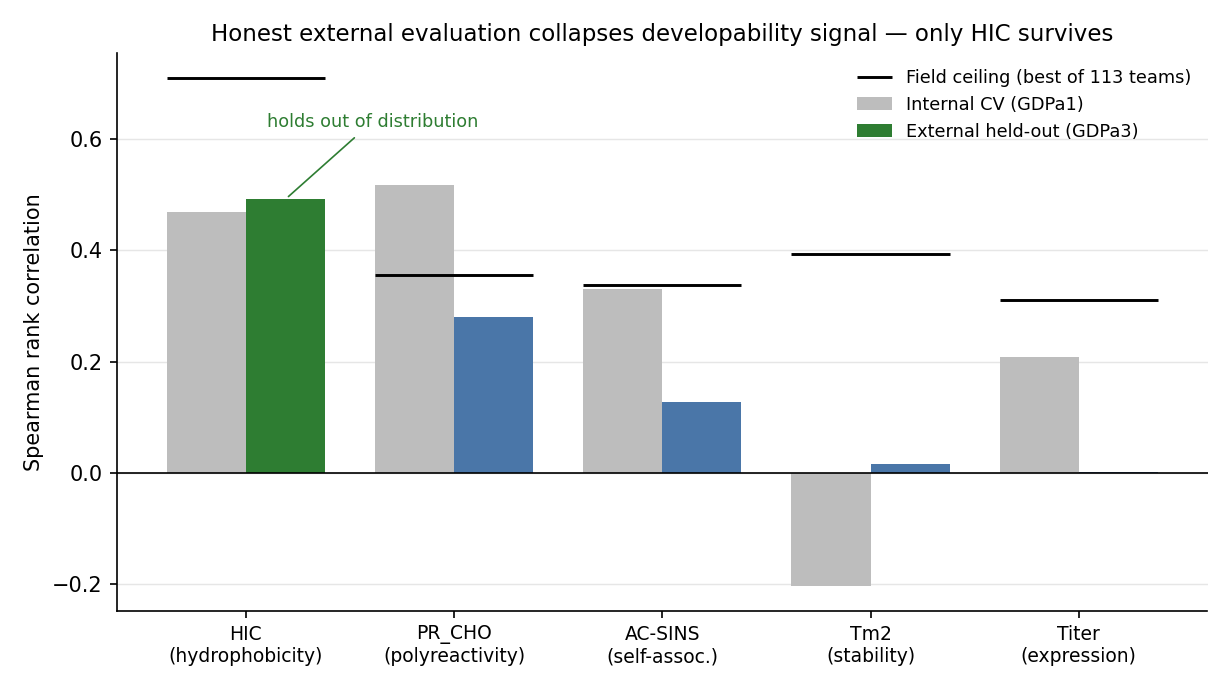
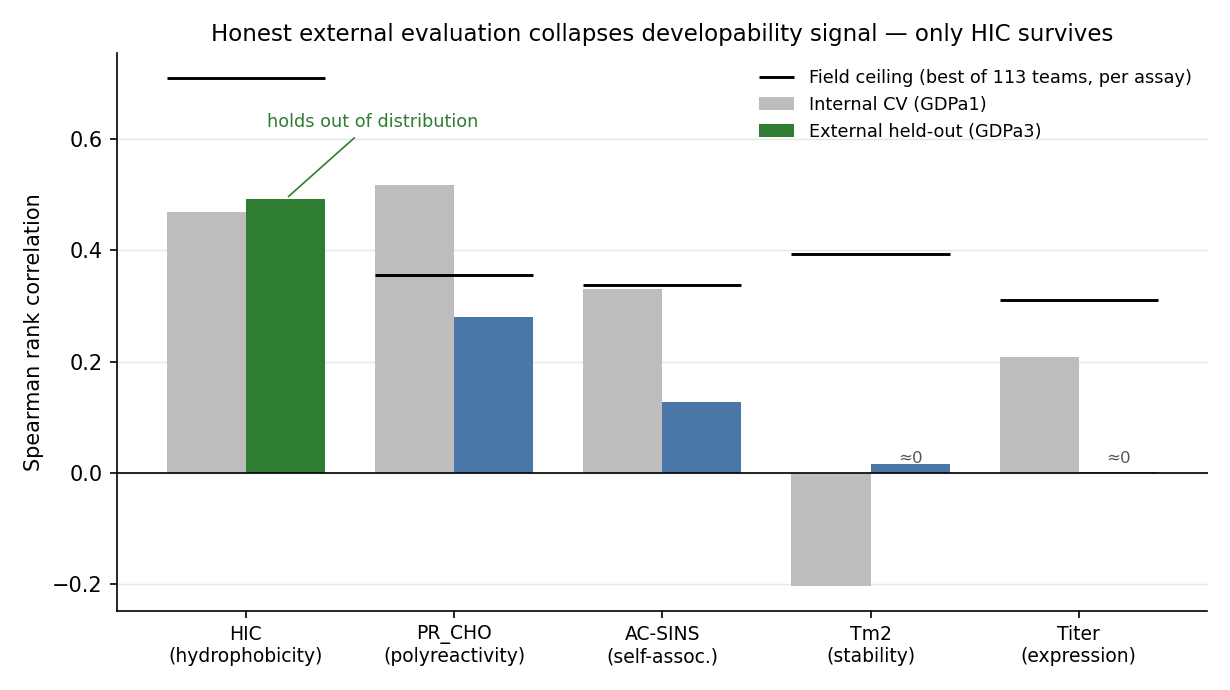
Fix figure/text consistency: Tm2 internal -0.20, zero-stubs, firewall caption

Changed region(s): [[0.6179, 0.0913, 0.9886, 0.213], [0.8959, 0.6391, 0.9268, 0.6696]]

diff --git a/scripts/plot_headline_collapse.py b/scripts/plot_headline_collapse.py
@@ -64,7 +64,12 @@ def main() -> None:
     for i, top in zip(x, df["published_top_spearman"]):
         if pd.notna(top):
             ax.hlines(top, i - width, i + width, color="black", linewidth=1.4)
-    ax.hlines([], [], [], color="black", linewidth=1.4, label="Field ceiling (best of 113 teams)")
+    ax.hlines([], [], [], color="black", linewidth=1.4, label="Field ceiling (best of 113 teams, per assay)")
+
+    # label near-zero external bars so a measured zero reads as a result, not missing data
+    for i, ext in enumerate(df["external_spearman"]):
+        if abs(ext) < 0.03:
+            ax.text(i + width / 2, 0.012, "≈0", ha="center", va="bottom", fontsize=8, color="#555555")
 
     ax.axhline(0, color="black", linewidth=0.8)
     ax.set_xticks(list(x))

diff --git a/README.md b/README.md
@@ -9,7 +9,7 @@ negative, and reporting that accurately is the point of the project.
 
 ![Internal GDPa1 cross-validation versus external GDPa3 held-out Spearman per assay; only HIC survives external evaluation, with the published competition field ceiling marked.](results/headline_collapse.png)
 
-*Internal GDPa1 cross-validation collapses to near zero on the external GDPa3 held-out set for every assay except HIC. Black bars mark the field ceiling (best of 113 competition teams). Regenerate with `python scripts/plot_headline_collapse.py`.*
+*Per assay: internal sequence-cluster grouped cross-validation on GDPa1 versus a single prediction on the blinded GDPa3 held-out set. Signal collapses to near zero externally for every assay except HIC (Tm2's internal value is negative — anti-correlated in-fold). Black bars mark the field ceiling — the best per-assay score across the 113 competition teams. Regenerate with `python scripts/plot_headline_collapse.py`.*
 
 ## Benchmark
 
@@ -49,7 +49,7 @@ competition teams on the same held-out set.
 | PR_CHO  | 0.52                | 0.28           | 0.356                       |
 | AC-SINS | 0.33                | 0.13           | 0.337                       |
 | Titer   | 0.21                | 0.00           | 0.310                       |
-| Tm2     | ≈ 0                 | ≈ 0            | 0.392                       |
+| Tm2     | −0.20               | ≈ 0            | 0.392                       |
 
 HIC is the one assay where the internal number holds out of distribution. On the
 same held-out split, a sequence-identity kNN baseline reaches 0.33. So physics